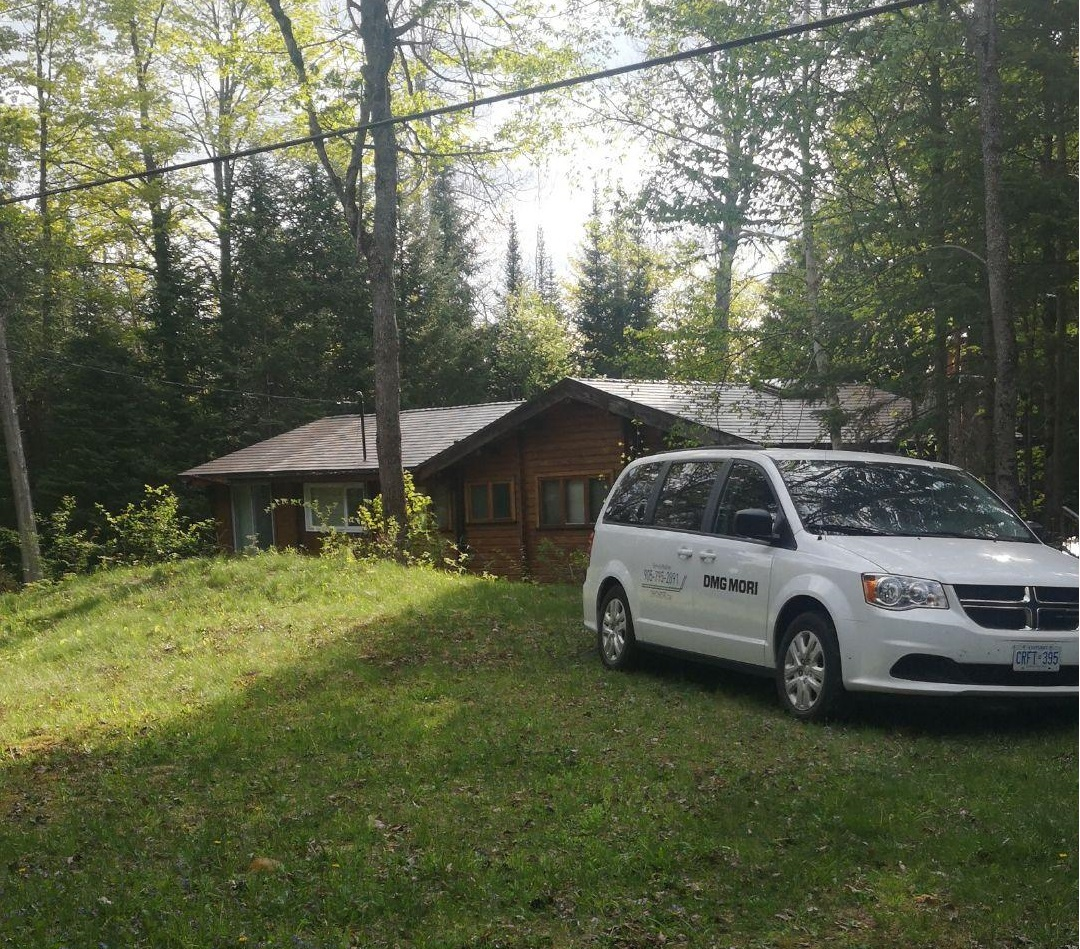
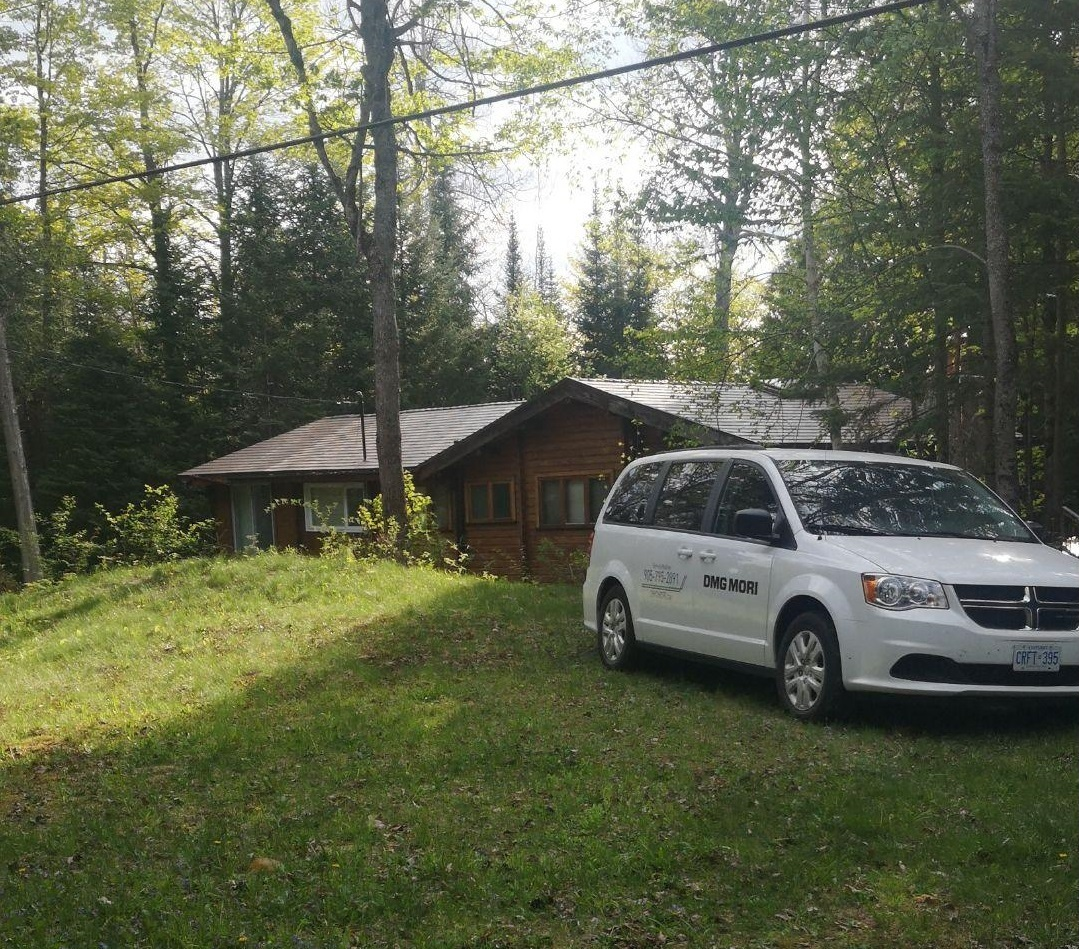
another photo fix
fixing picture ratio

diff --git a/index.html b/index.html
@@ -127,8 +127,8 @@ body {
 		</a>
 		<!--
 		2048x996 original
-		560px; height: 273px
-		560px; height: 315px
+		560
+		560x273 mopdified
 		-->
 		
 		
@@ -195,11 +195,18 @@ body {
 		<br></br>
 		<br></br>
 		<br></br>
-		<a href="http://mrretupmoc.github.io/cotty.jpg">
+		<a href="http://mrretupmoc.github.io/rockface_fireplace_cottage.jpg">
 		<img class="spotlight" alt="Image may contain: A wonderful Cottage in an array of plant, tree, outdoor, nature and water" aria-busy="false" 
-		src="http://mrretupmoc.github.io/cotty.jpg" 
-		style="width: 560px; height: 315px;">
+		src="http://mrretupmoc.github.io/rockface_fireplace_cottage.jpg" 
+		style="width: 560px; height: 421px;">
 		</a>
+		<!--
+		2048x1536 original
+		560
+		3.6571 Times
+		560x421 mopdified
+		-->
+		
 		
 
 
